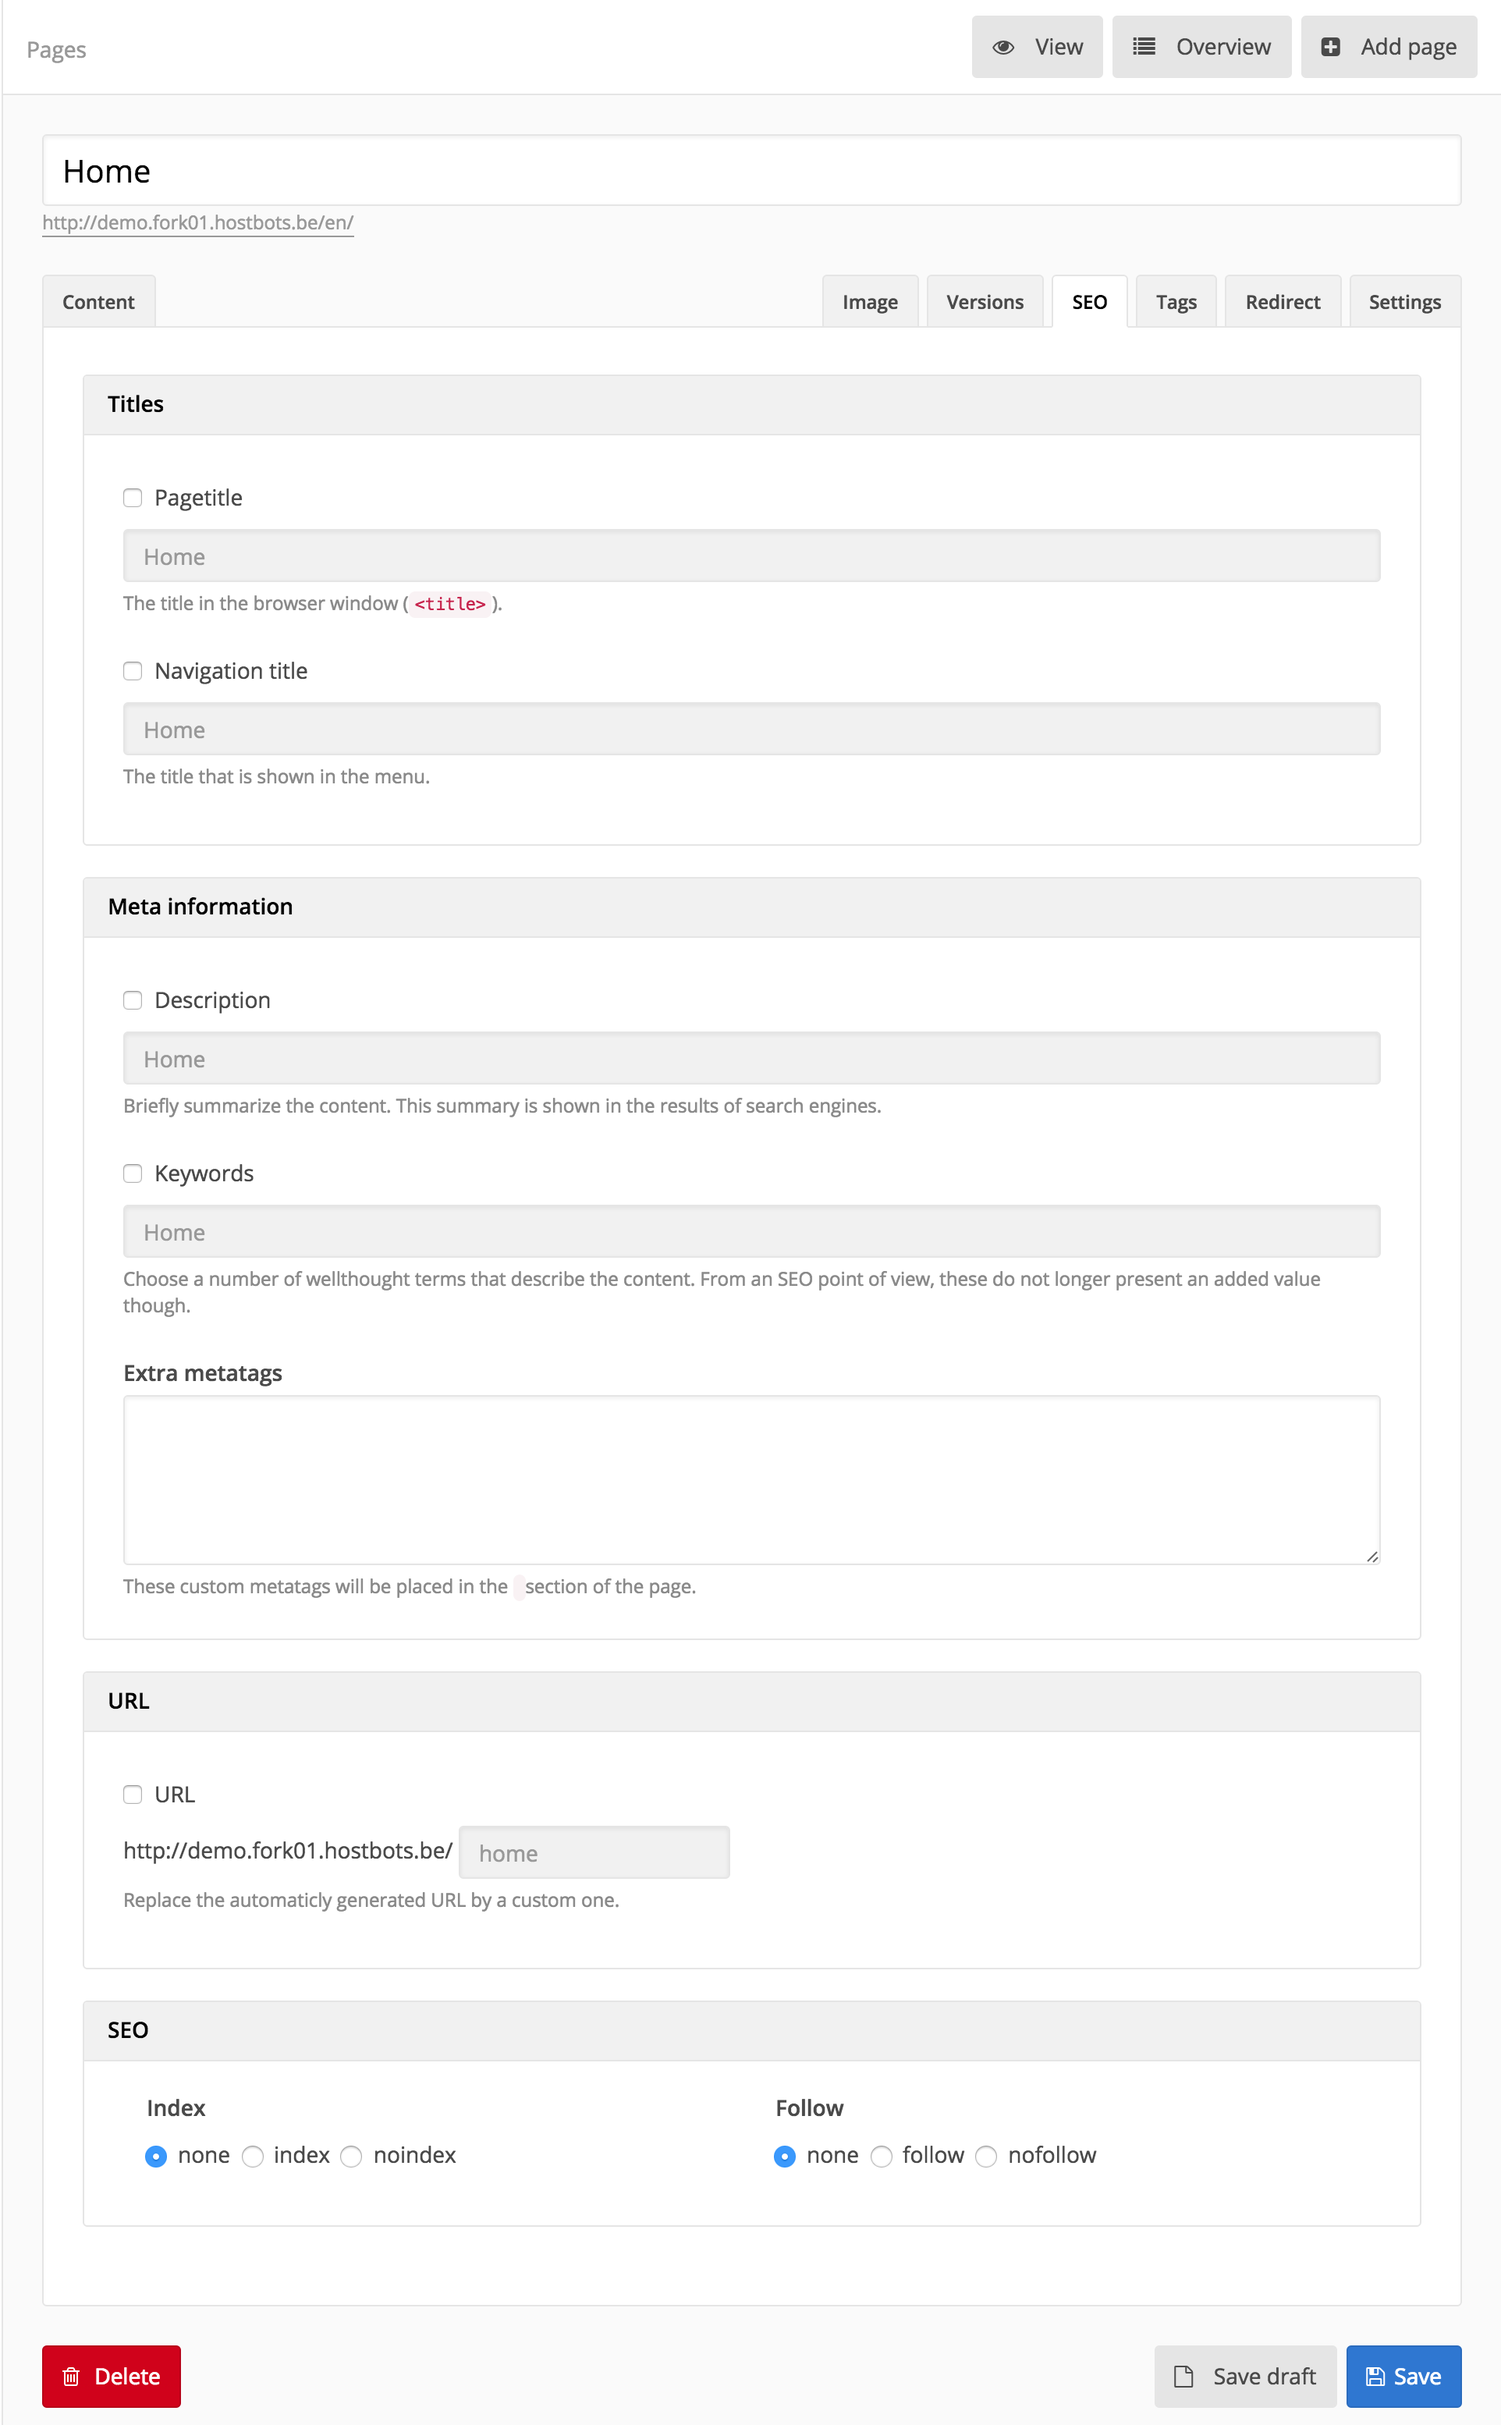
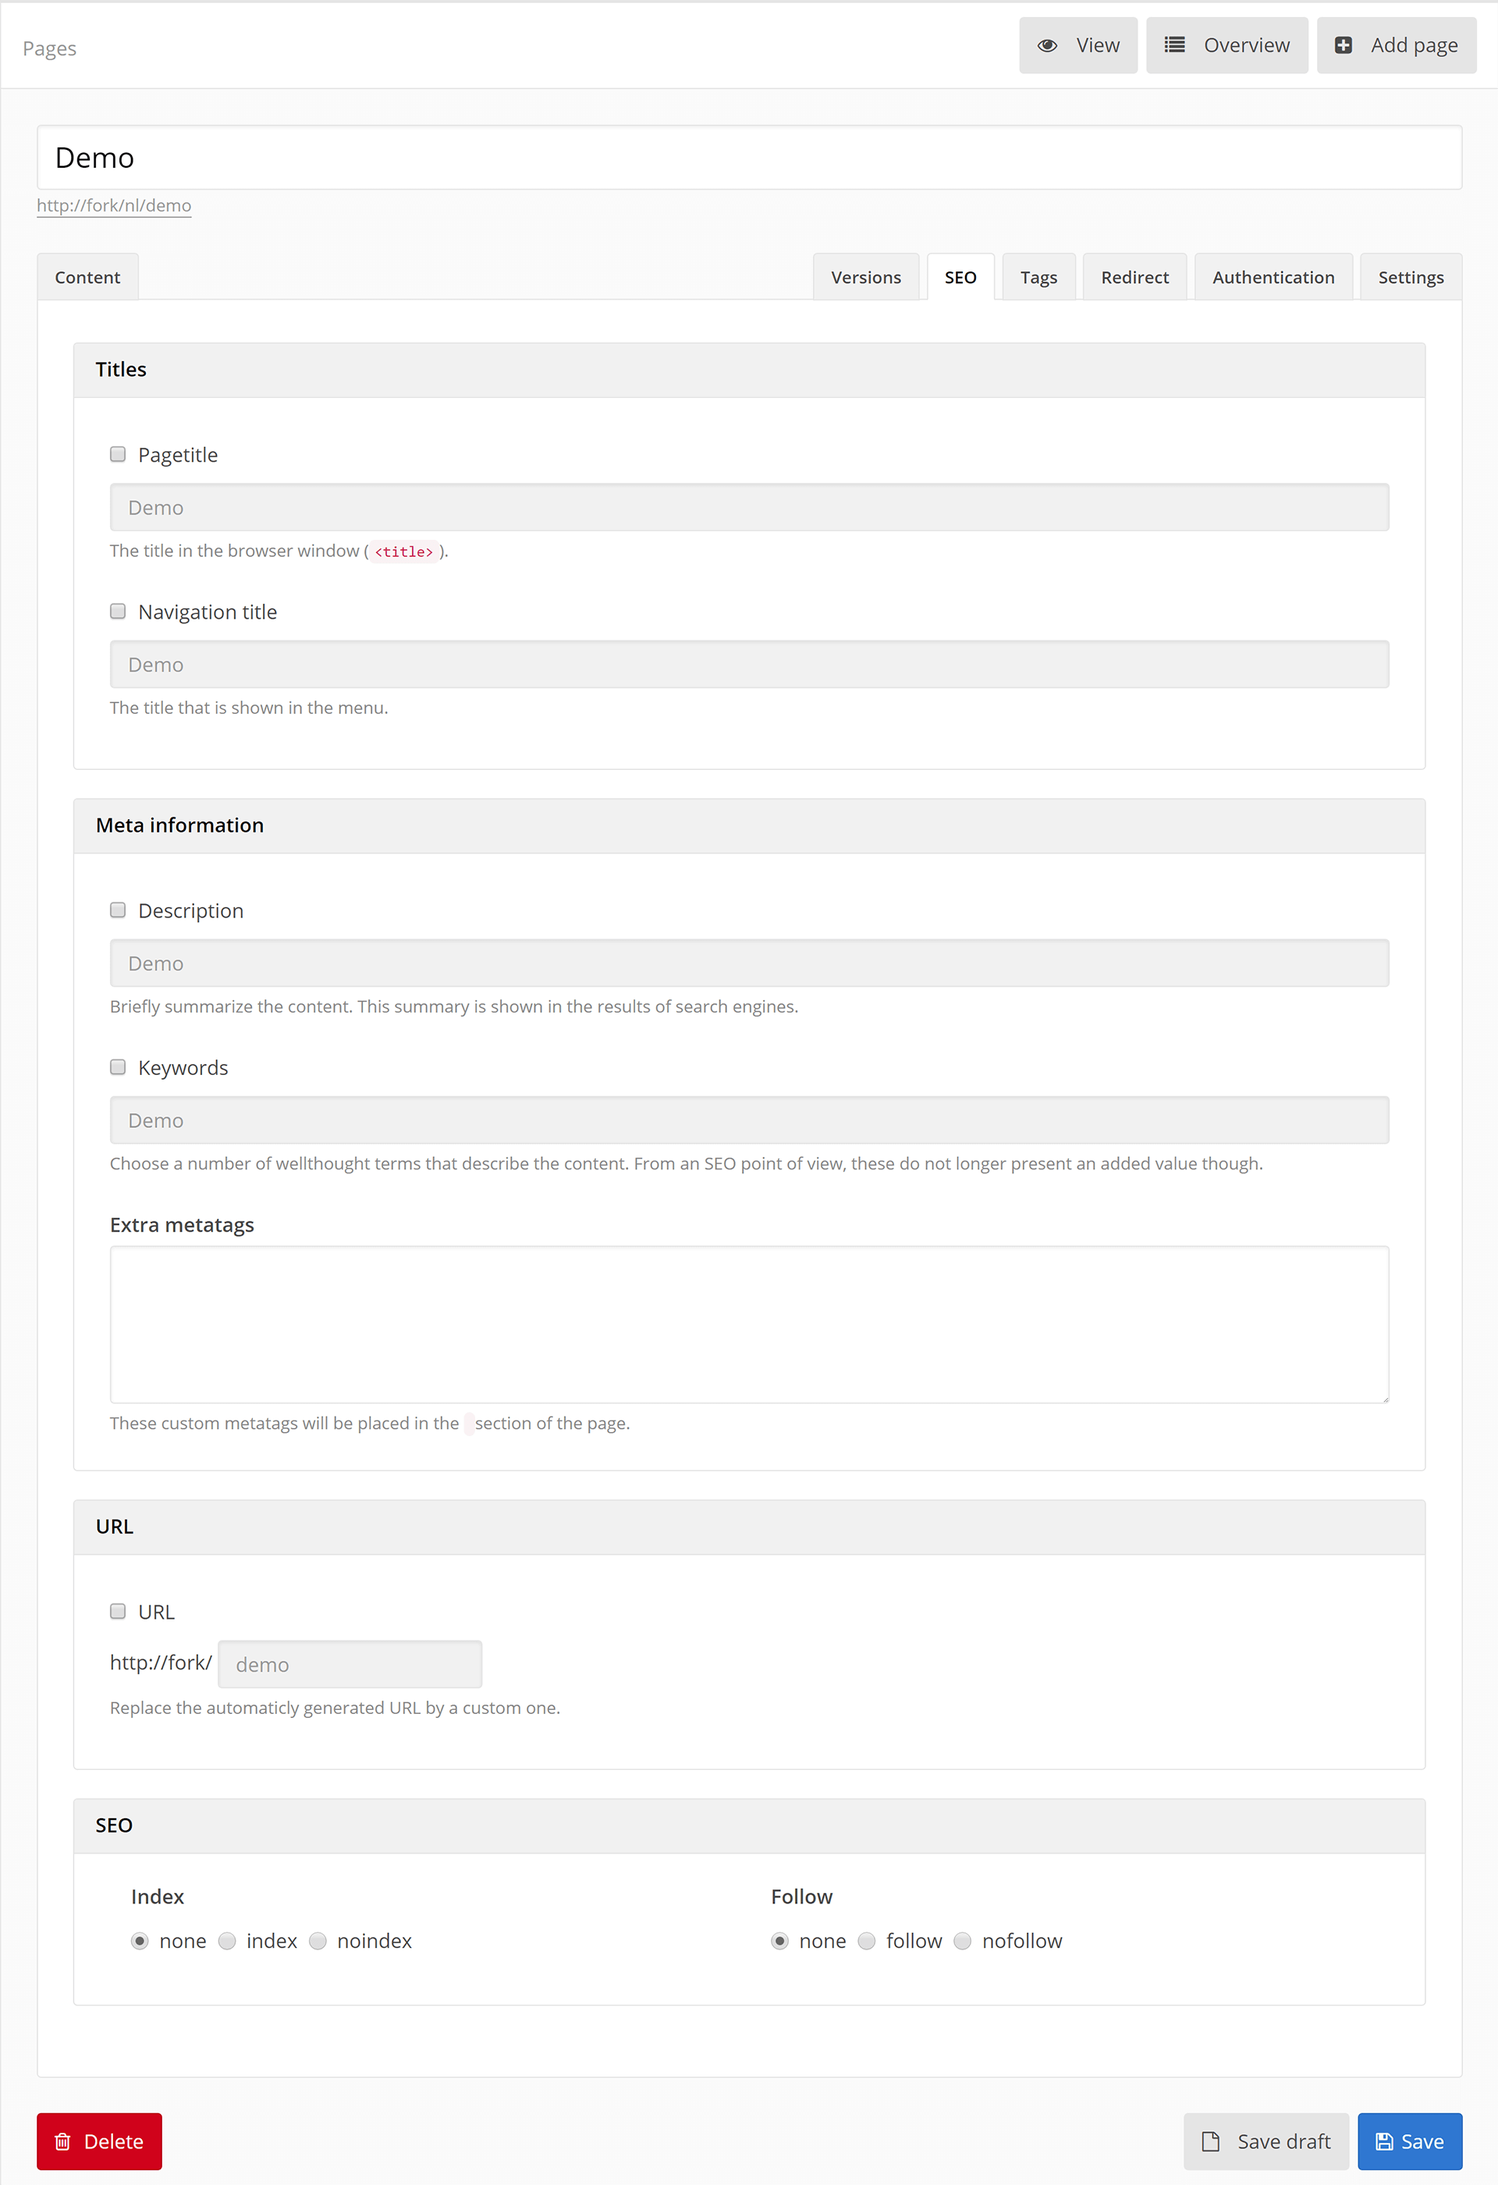
Updated docs for authentication feature in pages

diff --git a/03. user guide/03. pages.md b/03. user guide/03. pages.md
@@ -48,6 +48,12 @@ Sometimes you want a menu item to go to an external website or another internal 
 
 ![Redirect](https://github.com/forkcms/documentation/raw/master/03.%20user%20guide/assets/pages_redirect.png)
 
+### Authentication
+
+This tab will only be shown when the profiles module is installed. Sometimes you would like to have only logged in users to view specific pages, or even specific groups. This is now possible within the authentication tab. When enabling user authentication this page will be hidden from the navigation and can not be visited by a non-authenticated user. When you have created groups within the profiles module and once you enabled user authentication you'll have the option to limit access depending on the profiles group.
+
+![Authentication](https://github.com/forkcms/documentation/raw/master/03.%20user%20guide/assets/pages_authentication.png)
+
 ### Settings
 
 At the settings page you are able to change the basic properties of your page. The first options let you hide the page. The use this page as module-action can be check if you link a sub-action directly to a page. For instance if you want a custom template for the detail of a blog post.
